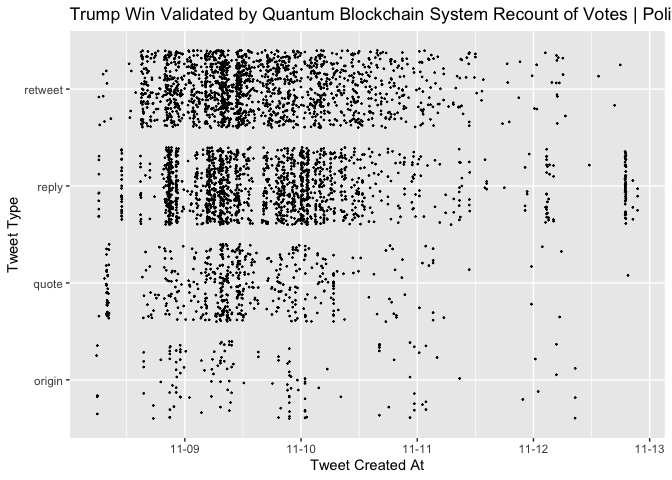
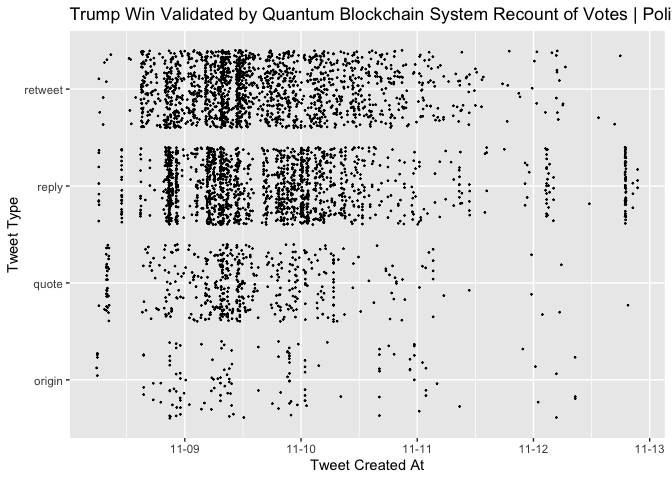
push complete hoaxy pipeline

diff --git a/README.md b/README.md
@@ -17,7 +17,7 @@ library(hoaxy)
 library(RColorBrewer)
 library(scales)
 source("~/Documents/hoaxy/functions.R")
-hoaxy_key('')
+hoaxy_key('2b584e8cdcmshd9e59585deed9d6p114a43jsn73cc6214f62d')
 ```
 
 ## Query Hoaxy for recent articles
@@ -38,7 +38,7 @@ articles$tag %>% table()
 
     ## .
     ##  clickbait conspiracy       hoax 
-    ##        298        197         13
+    ##        319        199         14
 
 ## Query articles for Hoaxy edges
 
@@ -51,14 +51,14 @@ articles$title[1:10]
 
     ##  [1] "PizzaGate Is the Silver Bullet! Exposed as CIA Global Pedo-Operation! | Alternative"                                                          
     ##  [2] "US Just Admitted \"ISIS HQ\" They Blew Up Was Actually an Innocent Family's Home"                                                             
-    ##  [3] "Shocking Study Shows Fracking Is Depleting US Drinking Water Sources at a Catastrophic Rate"                                                  
-    ##  [4] "BREAKING – The fight for America begins: Trump to invoke Insurrection Act that authorizes National Guard, military action inside U.S. borders"
-    ##  [5] "Daily Gun Deals: CMMG AR15 22LR Bravo Rifle Conversion Kit +3 Mags $219.95 FREE S&H"                                                          
-    ##  [6] "Major Hollywood Pedophile Ring Bust"                                                                                                          
-    ##  [7] "Trump Win Validated by Quantum Blockchain System Recount of Votes | Politics"                                                                 
-    ##  [8] "Money Spent by Both Parties in 2020 Election Could've Nearly Ended Homelessness in US"                                                        
-    ##  [9] "Boom! Tucker's Brilliant Summation! How Is He Still On Fox After He Ripped Their Guts Out?! Must Watch! | Politics"                           
-    ## [10] "X22Report: The Deep State/MSM Start To Shift Their Narrative, Dark Winter, The World Is Watching!"
+    ##  [3] "BREAKING – The fight for America begins: Trump to invoke Insurrection Act that authorizes National Guard, military action inside U.S. borders"
+    ##  [4] "Daily Gun Deals: CMMG AR15 22LR Bravo Rifle Conversion Kit +3 Mags $219.95 FREE S&H"                                                          
+    ##  [5] "Major Hollywood Pedophile Ring Bust"                                                                                                          
+    ##  [6] "Trump Win Validated by Quantum Blockchain System Recount of Votes | Politics"                                                                 
+    ##  [7] "Money Spent by Both Parties in 2020 Election Could've Nearly Ended Homelessness in US"                                                        
+    ##  [8] "Boom! Tucker's Brilliant Summation! How Is He Still On Fox After He Ripped Their Guts Out?! Must Watch! | Politics"                           
+    ##  [9] "X22Report: The Deep State/MSM Start To Shift Their Narrative, Dark Winter, The World Is Watching!"                                            
+    ## [10] "Vaccines - The Oldest Scam"
 
 Query Hoaxy for edges
 
@@ -71,15 +71,15 @@ print(paste0("Query ", i, " complete: ", nrow(edges[[i]]), " records"))
 ```
 
     ## [1] "Query 1 complete: 184 records"
-    ## [1] "Query 2 complete: 113 records"
-    ## [1] "Query 3 complete: 385 records"
-    ## [1] "Query 4 complete: 8 records"
-    ## [1] "Query 5 complete: 1 records"
-    ## [1] "Query 6 complete: 166 records"
-    ## [1] "Query 7 complete: 3924 records"
-    ## [1] "Query 8 complete: 10 records"
-    ## [1] "Query 9 complete: 0 records"
-    ## [1] "Query 10 complete: 4 records"
+    ## [1] "Query 2 complete: 114 records"
+    ## [1] "Query 3 complete: 8 records"
+    ## [1] "Query 4 complete: 1 records"
+    ## [1] "Query 5 complete: 166 records"
+    ## [1] "Query 6 complete: 3924 records"
+    ## [1] "Query 7 complete: 10 records"
+    ## [1] "Query 8 complete: 0 records"
+    ## [1] "Query 9 complete: 4 records"
+    ## [1] "Query 10 complete: 0 records"
 
 The story with the most tweet activity
     was:
@@ -139,3 +139,91 @@ ggplot(data = top_article,
 ```
 
 ![](DataPipleline_files/figure-gfm/unnamed-chunk-8-1.png)<!-- -->
+
+## Parse time series data
+
+Caculate differences between time of activity and time of first
+activity.
+
+``` r
+top_article <- top_article %>% 
+    mutate(h_hour = min(tweet_created_at)) %>%
+    mutate(h = as.numeric(difftime(tweet_created_at, h_hour), units = "hours"))
+```
+
+Plot cumulative tweet activity and active users over time
+
+  - Activity: number of tweet `created_at` time stamps \<= t
+  - Active User: count of unique users who have posted before time t
+
+<!-- end list -->
+
+``` r
+time_increments <- top_article$h %>% unique() %>% sort()
+
+activity_by_hour <- tibble(t = time_increments, 
+                           tot_activity = NA,
+                           tot_users = NA)
+
+for (i in 1:length(time_increments)){
+  activity_by_hour$tot_activity[i] = sum(top_article$h <= time_increments[i])
+  activity_by_hour$tot_users[i] = 
+    c(top_article$from_user_id[top_article$h <= time_increments[i]],
+      top_article$to_user_id[top_article$h <= time_increments[i]]) %>%
+    unique() %>% length()
+  }
+
+ggplot(data = activity_by_hour,
+         mapping = aes(x = t, y = tot_activity)) +
+  geom_point(size = 0.25, aes(color = "tot_activity")) + 
+  geom_point(data = activity_by_hour,
+             mapping = aes(x = t, y = tot_users,
+                           color = "tot_users"),
+             size = 0.25) +
+  labs(title = "Cumulative Activity / Active Users by Hour",
+       x = "Time (Hours)",
+       y = "Count") 
+```
+
+![](DataPipleline_files/figure-gfm/unnamed-chunk-10-1.png)<!-- -->
+
+## Generate Vensim lookup variable text string
+
+Round time values to integers and average counts for each period
+
+``` r
+vensim_data <- activity_by_hour %>%
+  mutate(t = t %>% ceiling()) %>%
+  group_by(t) %>% 
+  summarise(tot_users = tot_users %>% mean() %>% ceiling())
+
+N <- nrow(vensim_data)
+vensim_data$change <- c(0,
+      vensim_data$tot_users[2:N] - vensim_data$tot_users[1:(N-1)])
+vensim_data %>% head()
+```
+
+    ## # A tibble: 6 x 3
+    ##       t tot_users change
+    ##   <dbl>     <dbl>  <dbl>
+    ## 1     0         2      0
+    ## 2     1        10      8
+    ## 3     2        17      7
+    ## 4     3        32     15
+    ## 5     6        51     19
+    ## 6     7        58      7
+
+Generate lookup table string where each value represents
+
+``` r
+vensim_string <- c()
+for (i in 1:nrow(vensim_data)){
+  vensim_string[i] <- paste0("(", vensim_data$t[i], ", ", 
+                             vensim_data$change[i], ")")}
+
+vensim_string <- c(vensim_string[-length(vensim_string)])
+vensim_string <- vensim_string %>% paste0(collapse = ", ")
+vensim_string
+```
+
+    ## [1] "(0, 0), (1, 8), (2, 7), (3, 15), (6, 19), (7, 7), (8, 2), (9, 1), (10, 34), (11, 43), (12, 26), (13, 19), (14, 16), (15, 71), (16, 109), (17, 106), (18, 68), (19, 28), (20, 34), (21, 54), (22, 48), (23, 68), (24, 100), (25, 86), (26, 141), (27, 175), (28, 138), (29, 80), (30, 115), (31, 125), (32, 68), (33, 39), (34, 24), (35, 30), (36, 56), (37, 52), (38, 59), (39, 75), (40, 75), (41, 77), (42, 63), (43, 60), (44, 52), (45, 44), (46, 49), (47, 67), (48, 48), (49, 34), (50, 28), (51, 34), (52, 34), (53, 32), (54, 32), (55, 32), (56, 23), (57, 19), (58, 25), (59, 16), (60, 20), (61, 17), (62, 19), (63, 16), (64, 15), (65, 12), (66, 13), (67, 15), (68, 13), (69, 16), (70, 12), (71, 10), (72, 6), (73, 6), (74, 3), (75, 9), (76, 10), (77, 8), (78, 10), (79, 3), (80, 3), (81, 6), (84, 4), (85, 3), (86, 2), (88, 3), (89, 4), (90, 5), (91, 5), (92, 2), (93, 5), (94, 5), (95, 6), (96, 9), (97, 5), (99, 4), (102, 2), (104, 0), (107, 1), (109, 1), (110, 12), (111, 11)"
